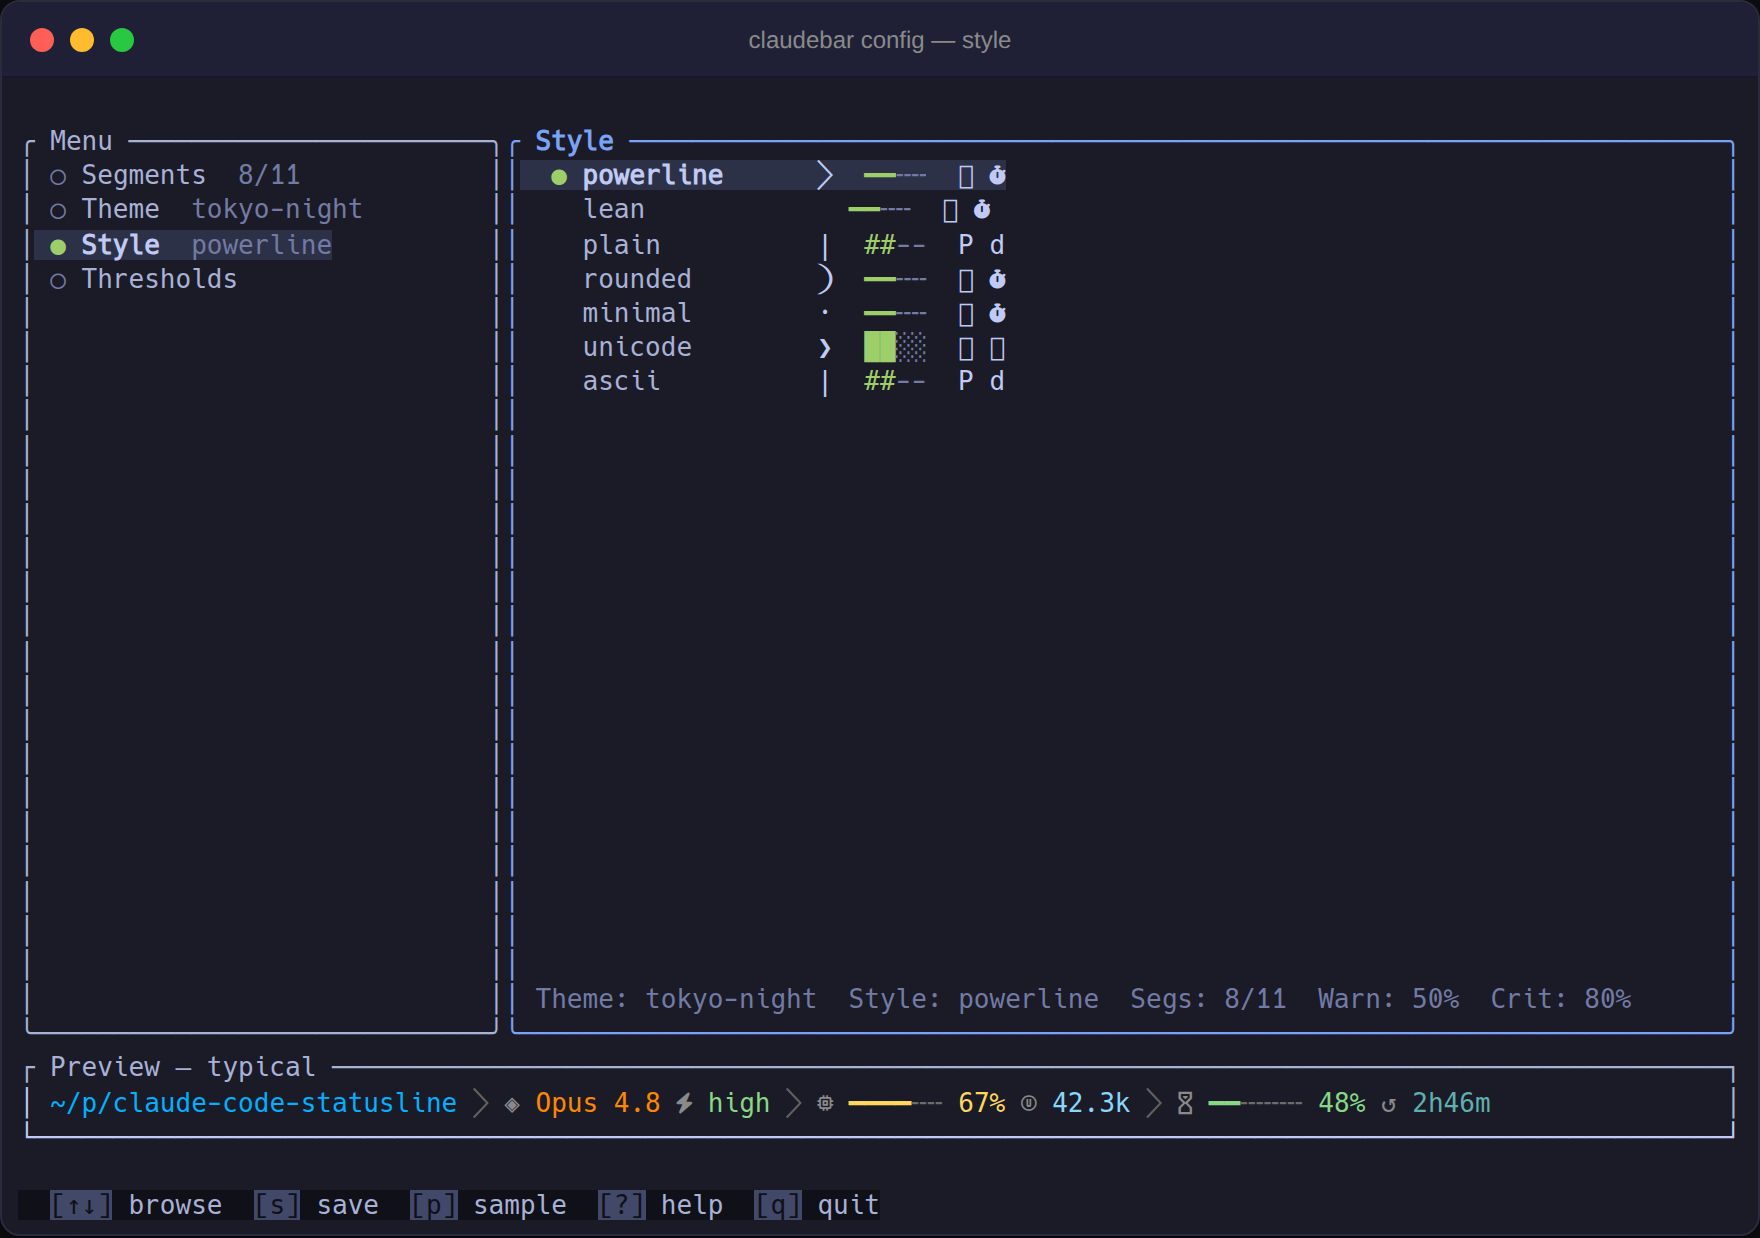
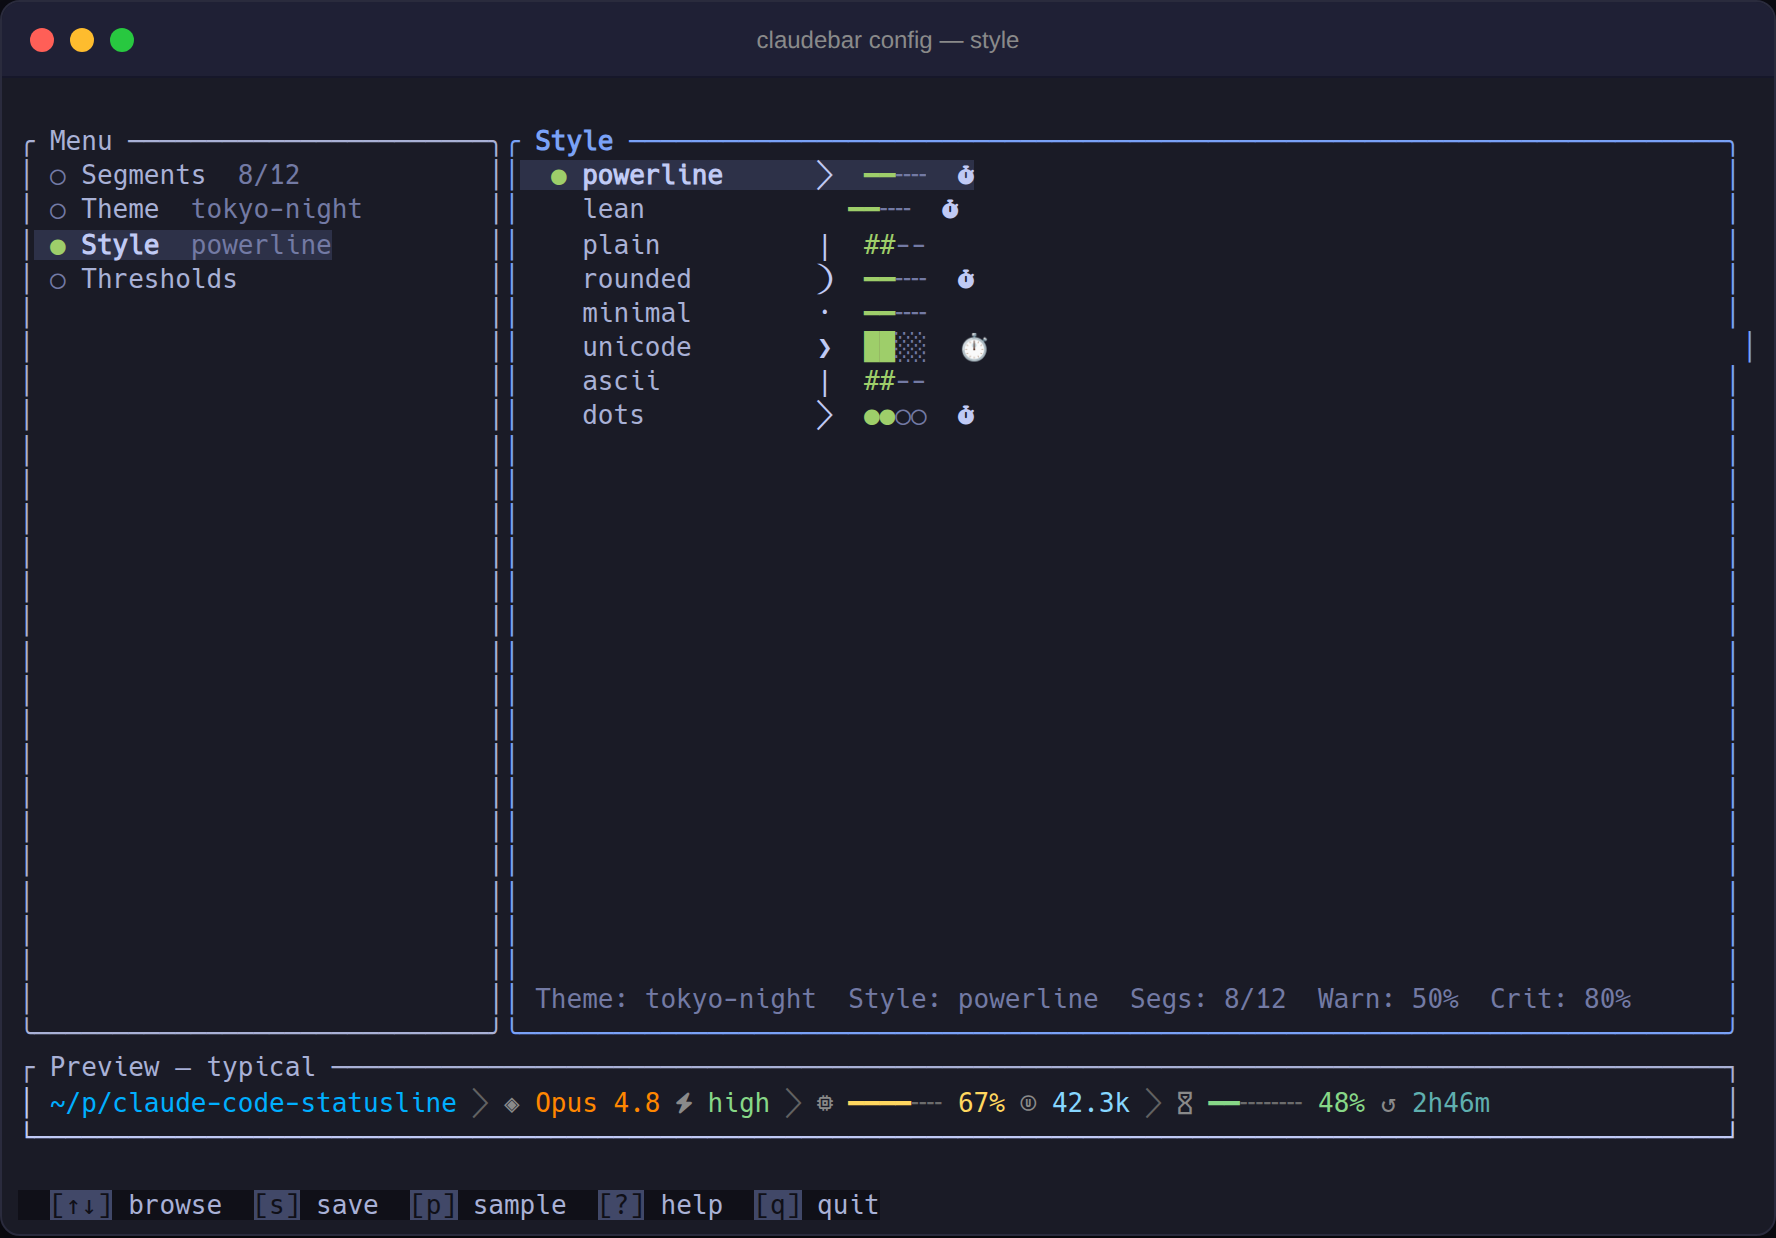
docs(screenshots): regen pills and tui shots for dots + update-notice

diff --git a/scripts/gen_screenshots.py b/scripts/gen_screenshots.py
@@ -593,6 +593,7 @@ body { background: #0d1117; display: flex; justify-content: center; }
 # Demo sample cache for the burn segment: without seeded samples it renders
 # its "warming" state (a meaningless dim `↗ …`). Seeded via _seed_burn_cache().
 _BURN_DEMO_TSV = "/tmp/claudebar-burn-demo.tsv"
+_UPDATE_DEMO_CFG = "/tmp/claudebar-demo-config"
 
 # All 11 segments (SegmentKind::ALL), each tagged with its row in the
 # "justified flow" layout — width-homogeneous rows (2/2/2/5) so every row's
@@ -618,6 +619,8 @@ _PILLS = [
     ("burn",        "Burn Rate", {"extra_env": {"CLAUDEBAR_BURN_FILE": _BURN_DEMO_TSV}}, 4),
     ("duration",    "Session Duration", {}, 4),
     ("clock",       "Clock", {}, 4),
+    ("update-notice", "Update Notice",
+     {"extra_env": {"XDG_CONFIG_HOME": _UPDATE_DEMO_CFG}}, 4),
 ]
 
 
@@ -631,6 +634,16 @@ def _seed_burn_cache(pct_now, rl_reset, target_eta):
     with open(_BURN_DEMO_TSV, "w") as f:
         for t in range(now - 600, now + 1, 60):
             f.write(f"{t}\t{pct_now - slope * (now - t):.3f}\t{now + rl_reset}\n")
+
+
+def _seed_update_cache(version="2026.9.3"):
+    """Write an update-check cache the update-notice pill can read. The stamp is
+    in the future so the render path treats the check as fresh and spawns no
+    background refresh while screenshots are being taken."""
+    d = os.path.join(_UPDATE_DEMO_CFG, "claudebar")
+    os.makedirs(d, exist_ok=True)
+    with open(os.path.join(d, "update-check.json"), "w") as f:
+        f.write('{"checked_at":%d,"latest":"%s"}' % (int(time.time()) + 86400, version))
 
 
 def _render_pills(entries, base_args):
@@ -652,7 +665,7 @@ def _render_pills(entries, base_args):
 
 
 def render_segment_pills():
-    """Render each of the 11 segments individually as a small pill-shaped
+    """Render each of the 12 segments individually as a small pill-shaped
     card, laid out in 4 width-homogeneous rows (2/2/2/5) that each flex to
     fill the container edge-to-edge — no default/optional grouping or
     divider. Uses critical-state data for varied bar fills and git state."""
@@ -660,6 +673,7 @@ def render_segment_pills():
     # ETA 7000s (~1h56m) > 1.2 × the 2700s reset → green, concrete projection.
     _seed_burn_cache(critical_args["rl_5h_pct"], critical_args["rl_5h_reset"],
                      target_eta=7000)
+    _seed_update_cache()
 
     rows = {}
     for seg_name, label, overrides, row in _PILLS:

diff --git a/README.md b/README.md
@@ -119,7 +119,7 @@ Colors shift as usage crosses **50%** and **80%**:
 
 All segments. Four are off by default (dev-context, burn, clock, update-notice):
 
-<img src="screenshots/segment-pills.png" width="860" alt="Every claudebar segment: directory, git, model, context, dev-context, rate limits, lines, cost, burn, duration, clock">
+<img src="screenshots/segment-pills.png" width="860" alt="Every claudebar segment: directory, git, model, context, dev-context, rate limits, lines, cost, burn, duration, clock, update notice">
 
 ## Configure
 
